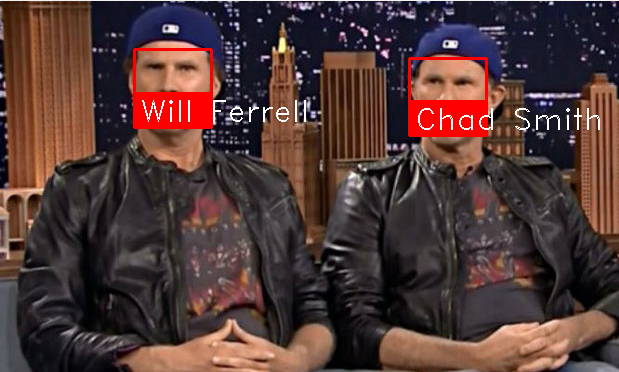
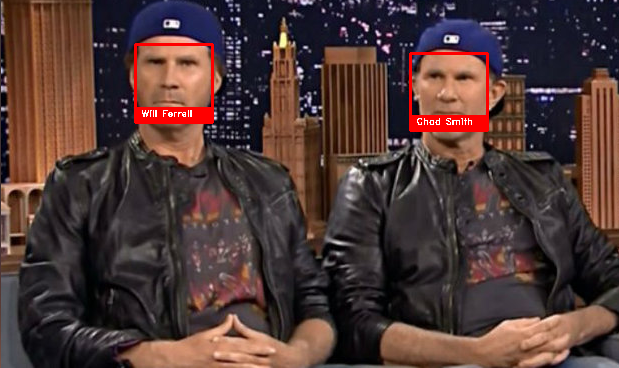
Fixing algorithm output and result image

diff --git a/face_recognizer.py b/face_recognizer.py
@@ -23,9 +23,9 @@ def draw_suspect(name, image, face_location):
     cv2.rectangle(image, (left, top), (right, bottom), (0, 0, 255), 2)
 
     # Draw a label with a name below the face
-    cv2.rectangle(image, (left, bottom - 35), (right, bottom), (0, 0, 255), cv2.FILLED)
+    cv2.rectangle(image, (left, bottom-15), (right, bottom), (0, 0, 255), cv2.FILLED)
     font = cv2.FONT_HERSHEY_DUPLEX
-    cv2.putText(image, name, (left + 6, bottom - 6), font, 1.0, (255, 255, 255), 1)
+    cv2.putText(image, name, (left + 6, bottom - 6), font, 0.3, (255, 255, 255), 1)
     return image
 
 def detect_faces(image):
@@ -36,7 +36,6 @@ def detect_faces(image):
 
 def recognize_faces(image, face_encodings, face_locations):
     suspects_index = 0
-    print len(face_encodings)
     for face_encoding in face_encodings:
         match = face_recognition.compare_faces(faces, face_encoding, tolerance=0.6)
         for i in range(len(match)):
